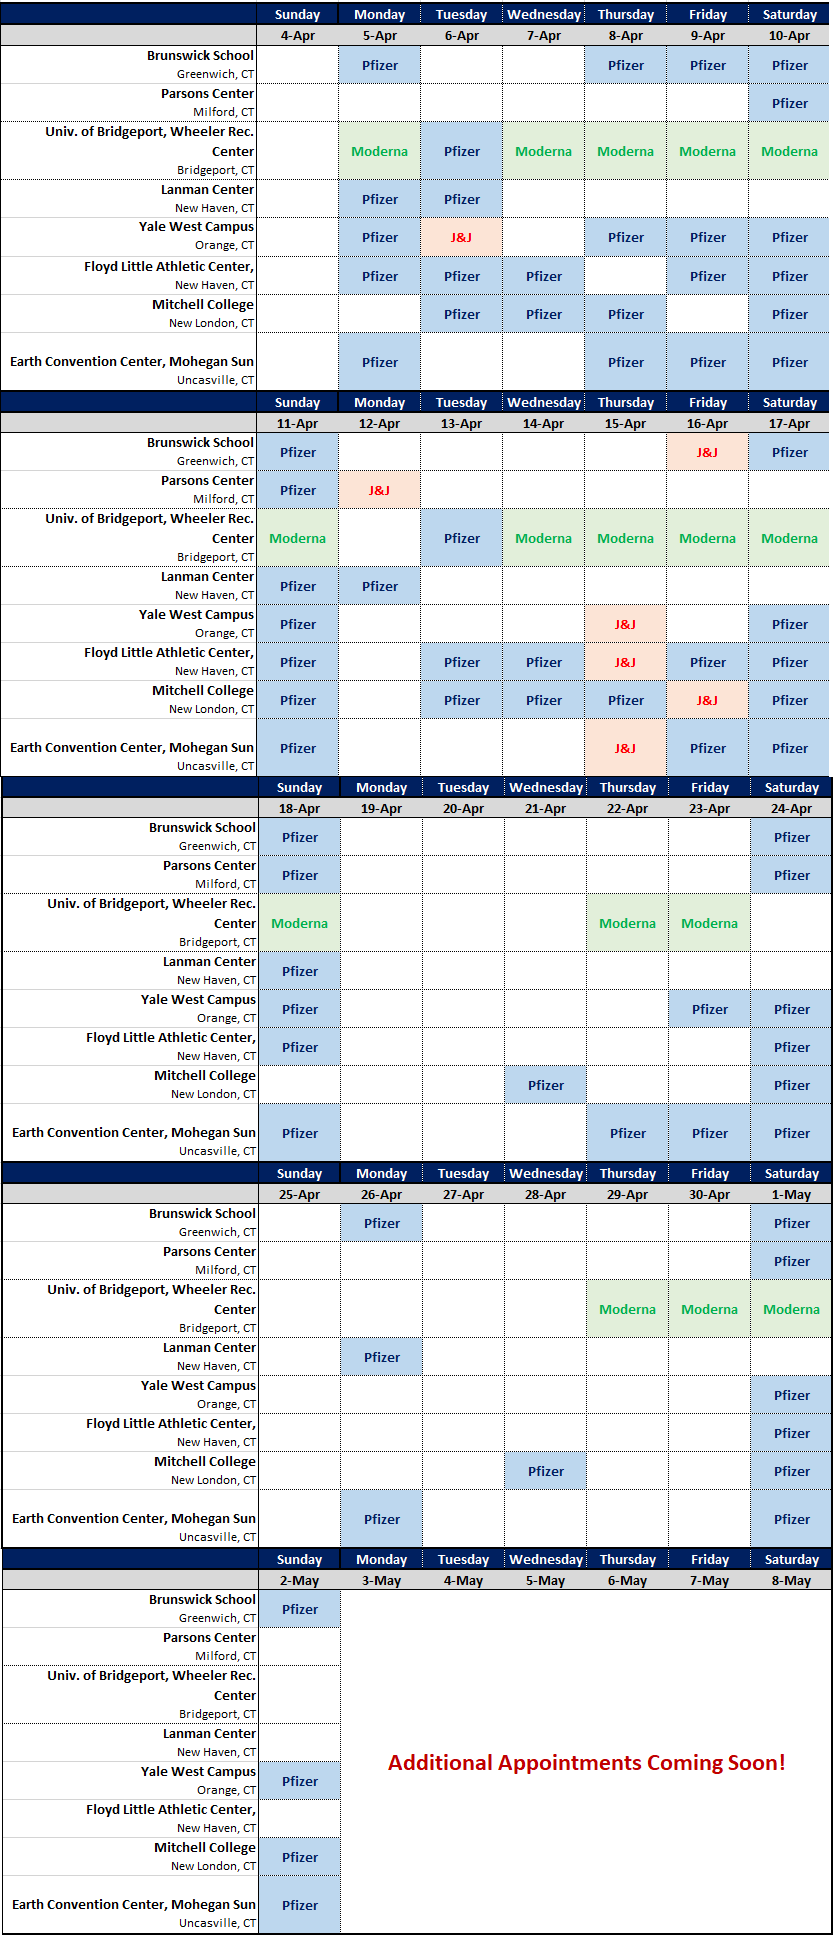
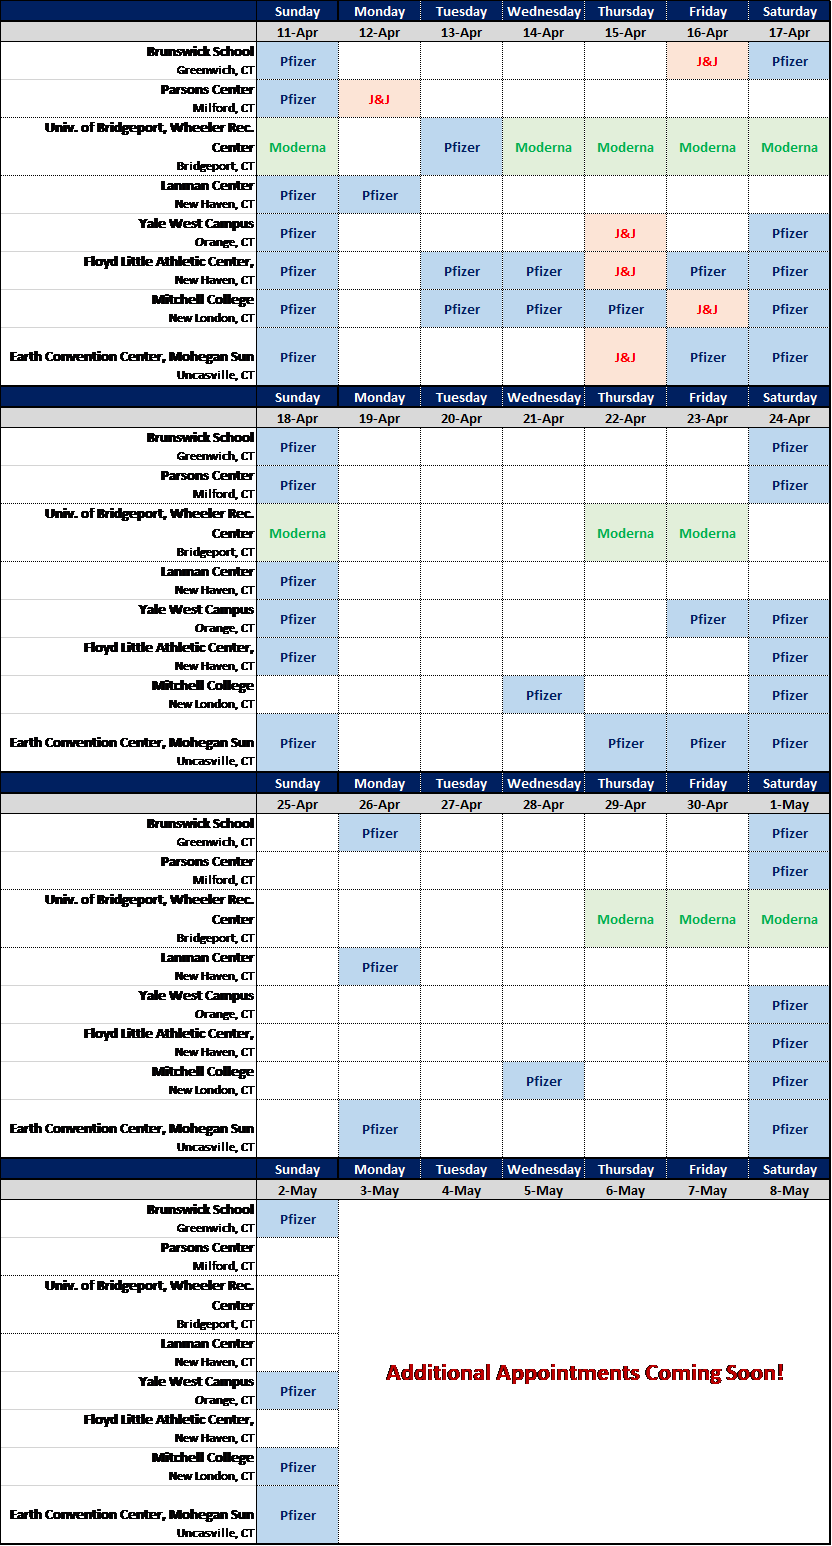
Updated Schedule.PNG & Aligned Acknowledge checkbx

diff --git a/components/QuestionContainerComponent/VaccinationScheduleConsent/VaccinationScheduleConsent.module.css b/components/QuestionContainerComponent/VaccinationScheduleConsent/VaccinationScheduleConsent.module.css
@@ -19,7 +19,7 @@
   }
 
   .q1_grid{
-    width: 900px;
+    width: 100%;
   }
 
   .question_row_item_sub,.legend, .fieldset{
@@ -49,7 +49,9 @@
     margin-top: 25px;
     width: 100%;
   }
-  
+  .fieldset {
+      width: 100%;
+  }
   .chk_row_item{
       border: solid 2px black;
       padding: 20px 0 20px 10px;

diff --git a/components/QuestionContainerComponent/VaccinationScheduleConsent/index.js b/components/QuestionContainerComponent/VaccinationScheduleConsent/index.js
@@ -82,7 +82,10 @@ const VaccinationScheduleConsent = ({
           margin: 1px;
         }
         .fin-statment {
-          width: 900px;
+          width: 100%;
+        }
+        .message{
+          width: 100%;
         }
       `}</style>
     </>
